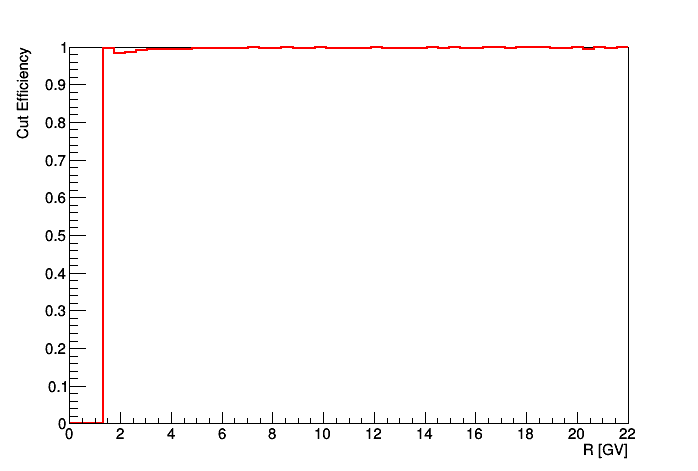
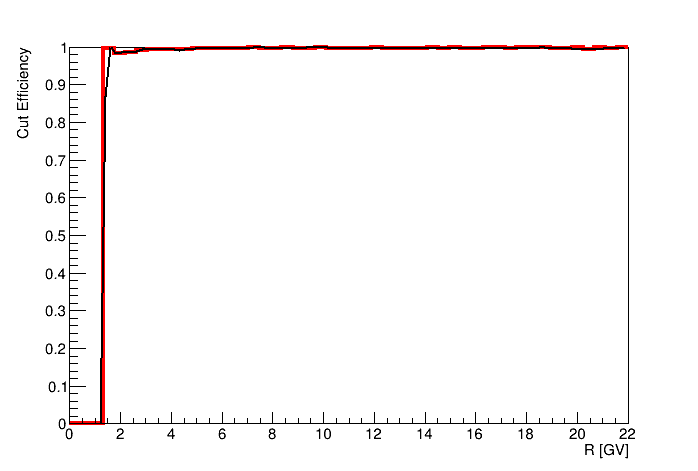
update 19-11-20

diff --git a/Acceptance.C b/Acceptance.C
@@ -1,0 +1,119 @@
+// C++ macro for cut efficiency calculation. PNG output in ./Efficiency
+// Created        12-11-20
+// Last Edited    14-11-20
+
+// Include header file(s)
+#include <iostream>
+#include "Header Files/Ntp.h"
+
+void Acceptance() {
+
+  // No canvas titles
+  gStyle->SetOptTitle(0);
+
+  // Import trees from Simple.root
+  TChain mc_chain("Compact");
+  mc_chain.Add("../MC Protons/*.root");
+
+  // Cuts
+  TCut* Crig = new TCut("trk_rig[0] > 0 && trk_rig[0] <= 22");
+  TCut* Cpar = new TCut("status % 10 == 1");
+  TCut* Ccon = new TCut("abs(tof_beta-rich_beta)/tof_beta < 0.05");
+  TCut* Cbet = new TCut("tof_beta > 0");
+  TCut* Cchi = new TCut("trk_chisqn[0][0] < 10 && trk_chisqn[0][1] < 10 && trk_chisqn[0][0] > 0 && trk_chisqn[0][1] > 0");
+  TCut* Cinn = new TCut("trk_q_inn > 0.80 && trk_q_inn < 1.30");
+  TCut* Clay = new TCut("trk_q_lay[4]>=0 && trk_q_lay[1]>=0 && trk_q_lay[2]>=0 && trk_q_lay[3]>=0 && trk_q_lay[5]>=0 && trk_q_lay[6]>=0 && trk_q_lay[7]>=0 && trk_q_lay[8]>=0 && trk_q_lay[0]>=0");
+  // TCut* Cgeo = new TCut("trk_rig > 1.2*cf");
+  // Master cut
+  TCut* Call = new TCut(*Crig && *Cpar && *Ccon && *Cbet && *Cchi && *Cinn && *Clay);
+
+  // Create canvas
+  TCanvas* c1 = new TCanvas("Acceptance1", "Acceptance Histogram");
+
+  // Draw histograms
+  mc_chain.Draw("trk_rig[0] >> hist1(100, 0, 22)", "", "");
+  mc_chain.Draw("trk_rig[0] >> hist2(100, 0, 22)", *Call, "same");
+
+  // Get TH1F objects
+  TH1F* hist1 = new TH1F();
+  TH1F* hist2 = new TH1F();
+  gROOT->GetObject("hist1", hist1);
+  gROOT->GetObject("hist2", hist2);
+
+  // Axis
+  // c1->SetLogx();
+  c1->SetLogy();
+  hist1->SetAxisRange(1,7e4,"Y");
+
+  // Draw canvas
+  c1->Draw();
+  // Print canvas
+  c1->Print("./Acceptance/Acceptance Histograms.png");
+
+
+  // Create canvas
+  TCanvas* c2 = new TCanvas("Acceptance2", "Acceptance Ratio");
+
+  // Get histogram ratio
+  TH1F* hist3 = (TH1F*) hist2->Clone();
+  hist3->SetName("hist3");
+  hist3->Divide(hist1);
+  // Draw
+  hist3->Draw("");
+  // Styling
+  hist3->SetStats(0);
+  hist3->SetLineColor(kRed);
+  hist3->SetLineWidth(2);
+  // Axes
+  hist3->GetXaxis()->SetTitle("R [GV]");
+  hist3->GetYaxis()->SetTitle("Cut Efficiency");
+  hist3->SetAxisRange(0,1,"Y");
+
+  // SPLICE
+  // Input nodees
+  double bin_left[32] = {1.00,1.16,1.33,1.51,1.71,1.92,2.15,2.40,2.67,2.97,3.29,3.64,4.02,4.43,4.88,5.37,5.90,6.47,7.09,7.76,8.48,9.26,10.1,11.0,12.0,13.0,14.1,15.3,16.6,18.0,19.5,21.1};
+  double bin_right[32] = {1.16,1.33,1.51,1.71,1.92,2.15,2.40,2.67,2.97,3.29,3.64,4.02,4.43,4.88,5.37,5.90,6.47,7.09,7.76,8.48,9.26,10.1,11.0,12.0,13.0,14.1,15.3,16.6,18.0,19.5,21.1,22.8};
+  std::vector<double> nodes;
+  for (int j = 0; j < 32; j++) {
+    nodes.emplace_back((bin_right[j] + bin_left[j]) / 2);
+  }
+  double x_min = nodes[0];
+  double x_max = nodes[nodes.size()-1];
+  // Define TF1 using a lambda function
+  // Coordinates of each node are fit parameters, incl derivs at beg and end -> nodes.size()*2+2
+  TF1 *f_spline = new TF1("spline", [&](Double_t *x, Double_t *par){
+    Double_t xx = x[0];
+    // Vectors for node coordinates
+    std::vector<double> xn;
+    std::vector<double> yn;
+    for (int j = 0; j < nodes.size(); j++){
+      xn.emplace_back(par[j]);
+      yn.emplace_back(par[j+nodes.size()]);
+    }
+    // First deriv at beg and end
+    Double_t b1 = par[nodes.size()*2];
+    Double_t e1 = par[nodes.size()*2+1];
+    // Define spline with nodes and derivs
+    TSpline3 sp3("sp3", &xn[0], &yn[0], nodes.size(), "b1e1", b1, e1);
+    return
+      sp3.Eval(xx);
+  }, x_min, x_max, nodes.size()*2+2);
+  for (int j = 0; j < nodes.size(); j++){
+    f_spline->FixParameter(j, nodes[j]);
+    f_spline->SetParameter(j+nodes.size(), hist3->GetBinContent(hist3->FindBin(nodes[j])));
+  }
+  f_spline->FixParameter(nodes.size()*2, 0.);
+  f_spline->FixParameter(nodes.size()*2+1, 0.);
+  // Draw Spline
+  f_spline->SetLineColor(kBlack);
+  f_spline->Draw("same");
+
+  // Draw canvas
+  c2->Draw();
+  // Print canvas
+  c2->Print("./Acceptance/Acceptance Ratio.png");
+
+
+
+
+  }

diff --git a/Efficiency_OLD.C b/Efficiency_OLD.C
@@ -89,55 +89,12 @@ void Efficiency(bool logx = 0, bool vcheck = 0) {
     // Styling
     hist3->SetStats(0);
     hist3->SetLineColor(kRed);
-    hist3->SetLineWidth(4);
+    hist3->SetLineWidth(2);
     // Axes
     hist3->GetXaxis()->SetTitle("R [GV]");
     hist3->GetYaxis()->SetTitle("Cut Efficiency");
     hist3->SetAxisRange(0,1,"Y");
     c1->SetLogx(logx);
-
-
-
-    // SPLICE
-    // Input nodees
-    double bin_left[32] = {1.00,1.16,1.33,1.51,1.71,1.92,2.15,2.40,2.67,2.97,3.29,3.64,4.02,4.43,4.88,5.37,5.90,6.47,7.09,7.76,8.48,9.26,10.1,11.0,12.0,13.0,14.1,15.3,16.6,18.0,19.5,21.1};
-    double bin_right[32] = {1.16,1.33,1.51,1.71,1.92,2.15,2.40,2.67,2.97,3.29,3.64,4.02,4.43,4.88,5.37,5.90,6.47,7.09,7.76,8.48,9.26,10.1,11.0,12.0,13.0,14.1,15.3,16.6,18.0,19.5,21.1,22.8};
-    std::vector<double> nodes;
-    for (int j = 0; j < 32; j++) {
-      nodes.emplace_back((bin_right[j] + bin_left[j]) / 2);
-    }
-    double x_min = nodes[0];
-    double x_max = nodes[nodes.size()-1];
-    // Define TF1 using a lambda function
-    // Coordinates of each node are fit parameters, incl derivs at beg and end -> nodes.size()*2+2
-    TF1 *f_spline = new TF1(Form("func%d", i), [&](Double_t *x, Double_t *par){
-      Double_t xx = x[0];
-      // Vectors for node coordinates
-      std::vector<double> xn;
-      std::vector<double> yn;
-      for (int j = 0; j < nodes.size(); j++){
-        xn.emplace_back(par[j]);
-        yn.emplace_back(par[j+nodes.size()]);
-      }
-      // First deriv at beg and end
-      Double_t b1 = par[nodes.size()*2];
-      Double_t e1 = par[nodes.size()*2+1];
-      // Define spline with nodes and derivs
-      TSpline3 sp3("sp3", &xn[0], &yn[0], nodes.size(), "b1e1", b1, e1);
-      return
-        sp3.Eval(xx);
-    }, x_min, x_max, nodes.size()*2+2);
-    for (int j = 0; j < nodes.size(); j++){
-      f_spline->FixParameter(j, nodes[j]);
-      f_spline->SetParameter(j+nodes.size(), hist3->GetBinContent(hist3->FindBin(nodes[j])));
-    }
-    f_spline->FixParameter(nodes.size()*2, 0.);
-    f_spline->FixParameter(nodes.size()*2+1, 0.);
-    // Draw Spline
-    f_spline->SetLineColor(kBlack);
-    f_spline->Draw("same");
-
-
 
     // Draw Canvas
     c1->Draw();

diff --git a/ProtonRate.C b/ProtonRate.C
@@ -6,7 +6,7 @@
 #include <iostream>
 #include "Header Files/Ntp.h"
 
-void ProtonRate(bool logx = 1, bool logy = 1, bool vcheck = 0) {
+void ProtonRate(bool logx = 1, bool logy = 1, bool vcheck = 0, Double_t scale = 2.7) {
 
   // No canvas titles
   gStyle->SetOptTitle(0);
@@ -150,10 +150,20 @@ void ProtonRate(bool logx = 1, bool logy = 1, bool vcheck = 0) {
   // Axes
   Rgraph->GetXaxis()->SetTitle("R [GV]");
   Rgraph->GetYaxis()->SetTitle("Rate [s^-1]");
-  c2->SetLogx(logx);
-  c2->SetLogy(logy);
   // Draw
   Rgraph->Draw("AP");
+
+  // Fit Rate Graph
+  // TF1 *plaw = new TF1("plaw","[0]*pow(x, [1])", 2, 22);
+  // plaw->SetParameter(300,-2.5);
+  // // plaw->FixParameter(0,300);
+  // // plaw->FixParameter(1,-2.5);
+  // Rgraph->Fit("plaw", "EX0");
+  // //cout << plaw->GetParameters() << endl;
+  // plaw->Draw("same");
+
+  c2->SetLogx(logx);
+  c2->SetLogy(logy);
   // Print canvas
   c2->Print("./ProtonRate/Proton Rate.png");
 
@@ -190,5 +200,26 @@ void ProtonRate(bool logx = 1, bool logy = 1, bool vcheck = 0) {
   Tgraph->Draw("AP");
   // Print canvas
   c4->Print("./ProtonRate/Exposure Time.png");
+
+  // // Scaled Rate Graph
+  // Float_t ScaledRate[32] = {0,0,0,0,0,0,0,0,0,0,0,0,0,0,0,0,0,0,0,0,0,0,0,0,0,0,0,0,0,0,0,0};
+  // for (Int_t i = 0; i < 32; i++) {
+  //   ScaledRate[i] = Rate[i] * pow(bin_middle[i], scale);
+  // }
+  // TGraphErrors* Sgraph = new TGraphErrors(32, bin_middle, ScaledRate, ErrRig, ErrRate);
+  // TCanvas* c5 = new TCanvas("c5", "Scaled Rate Graph");
+  // // Styling
+  // Sgraph->SetMarkerStyle(20);
+  // Sgraph->SetMarkerSize(1);
+  // Sgraph->SetMarkerColor(kRed);
+  // // Axes
+  // Sgraph->GetXaxis()->SetTitle("R [GV]");
+  // Sgraph->GetYaxis()->SetTitle(Form("Rate * R^%f [s^-1 GV^%f]", scale, scale));
+  // c5->SetLogx(logx);
+  // c5->SetLogy(logy);
+  // // Draw
+  // Sgraph->Draw("AP");
+  // // Print canvas
+  // c5->Print(Form("./ProtonRate/Scaled R^%2f Proton Rate.png",scale));
 
 }
